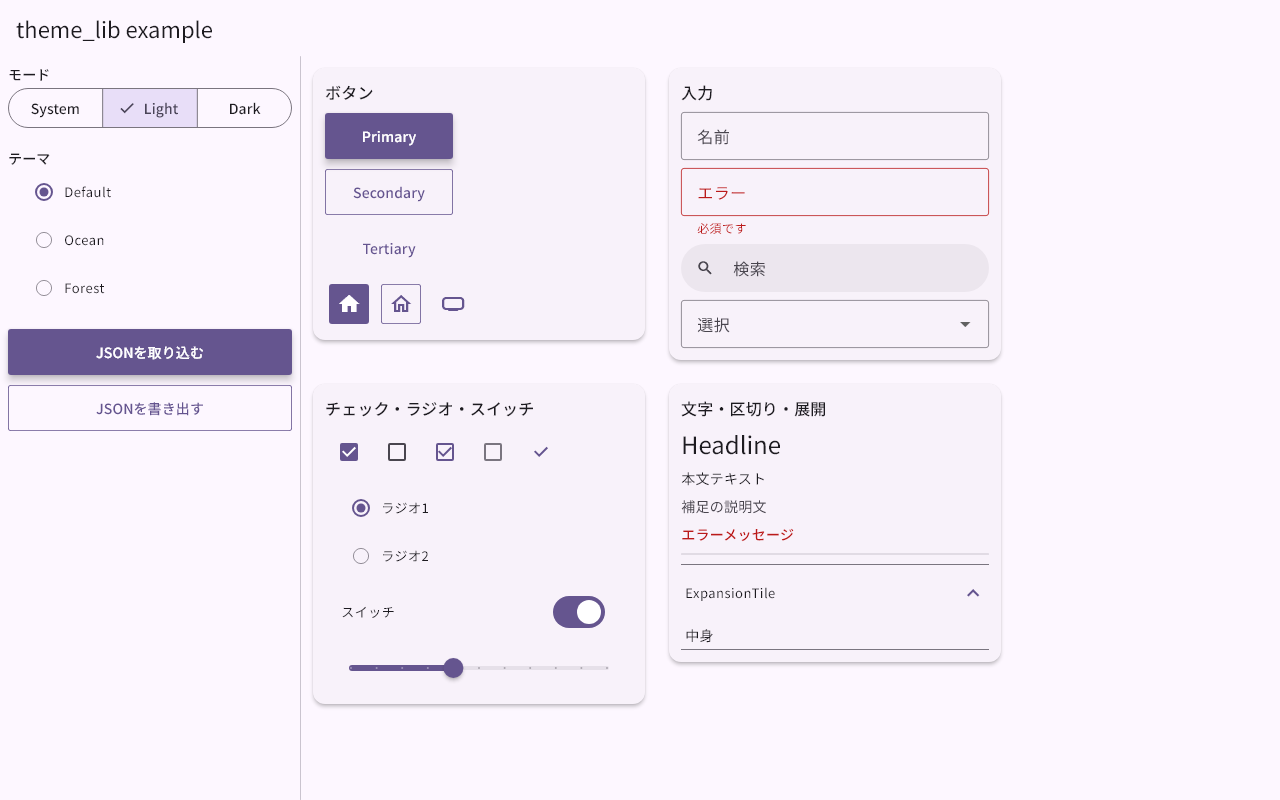
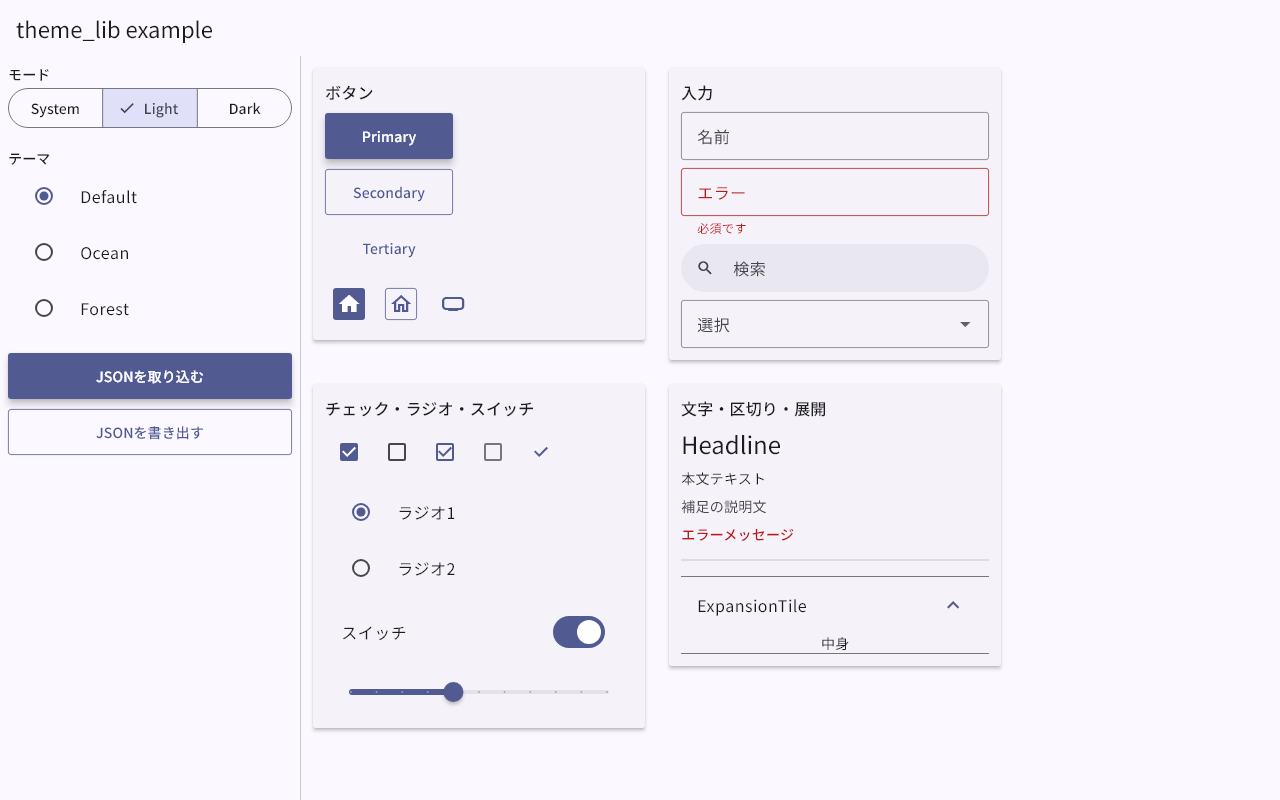
theme_lib: ThemeManager更新、builder追加、ドキュメント画像・ログ更新

diff --git a/packages/ui/theme_lib/lib/builder/theme_builder.dart b/packages/ui/theme_lib/lib/builder/theme_builder.dart
@@ -1,0 +1,103 @@
+import 'package:flutter/material.dart';
+
+import '../model/theme_definition.dart';
+import '../tokens/border_field.dart';
+import '../tokens/space_field.dart';
+
+/// [ThemeDefinition] から [ThemeData] を組み立てる。
+abstract final class ThemeBuilder {
+  static ThemeData build(ThemeDefinition definition, Brightness brightness) {
+    final metrics = definition.metrics;
+    final colors = _colorScheme(definition, brightness);
+    final shape = RoundedRectangleBorder(
+      borderRadius: BorderRadius.circular(metrics.radius),
+    );
+    OutlineInputBorder outline(Color color, double width) => OutlineInputBorder(
+      borderRadius: BorderRadius.circular(metrics.radius),
+      borderSide: BorderSide(color: color, width: width),
+    );
+    final buttonSize = Size(metrics.buttonWidth, metrics.buttonHeight);
+    final iconSize = Size.square(metrics.iconButtonSize);
+
+    return ThemeData(
+      useMaterial3: true,
+      colorScheme: colors,
+      fontFamily: definition.fontFamily,
+      extensions: [
+        SpaceField(
+          formFieldPd: metrics.formFieldPadding,
+          menuFieldPd: metrics.menuFieldPadding,
+          spacing: metrics.spacing,
+        ),
+        BorderField(
+          radius: metrics.radius,
+          fullRadius: metrics.fullRadius,
+          borderWidth: metrics.borderWidth,
+          activeBorderWidth: metrics.activeBorderWidth,
+        ),
+      ],
+      filledButtonTheme: FilledButtonThemeData(
+        style: FilledButton.styleFrom(
+          minimumSize: buttonSize,
+          elevation: metrics.buttonElevation,
+          shape: shape,
+        ),
+      ),
+      iconButtonTheme: IconButtonThemeData(
+        style: IconButton.styleFrom(
+          minimumSize: iconSize,
+          padding: EdgeInsets.zero,
+          shape: shape,
+        ),
+      ),
+      inputDecorationTheme: InputDecorationTheme(
+        isDense: true,
+        contentPadding: EdgeInsets.all(metrics.formFieldPadding + 8),
+        border: outline(colors.outline, metrics.borderWidth),
+        enabledBorder: outline(colors.outline, metrics.borderWidth),
+        focusedBorder: outline(colors.primary, metrics.activeBorderWidth),
+        errorBorder: outline(colors.error, metrics.borderWidth),
+        focusedErrorBorder: outline(colors.error, metrics.activeBorderWidth),
+      ),
+      cardTheme: CardThemeData(shape: shape),
+      dialogTheme: DialogThemeData(shape: shape),
+      checkboxTheme: CheckboxThemeData(
+        shape: RoundedRectangleBorder(
+          borderRadius: BorderRadius.circular(metrics.radius / 2),
+        ),
+      ),
+    );
+  }
+
+  /// seed から配色を生成し、個別指定の色を重ねる。
+  ///
+  /// `dark` が無いときは `light` の seed だけからダーク配色を生成する
+  /// (ライト用の個別指定色はダークで破綻するため重ねない)。
+  static ColorScheme _colorScheme(
+    ThemeDefinition definition,
+    Brightness brightness,
+  ) {
+    final explicit = brightness == Brightness.dark ? definition.dark : null;
+    final palette = brightness == Brightness.dark
+        ? (definition.dark ?? definition.light)
+        : definition.light;
+    final useOverrides = brightness == Brightness.light || explicit != null;
+    final o = useOverrides ? palette.overrides : const <String, Color>{};
+    return ColorScheme.fromSeed(
+      seedColor: palette.seed,
+      brightness: brightness,
+    ).copyWith(
+      primary: o['primary'],
+      onPrimary: o['onPrimary'],
+      secondary: o['secondary'],
+      onSecondary: o['onSecondary'],
+      tertiary: o['tertiary'],
+      onTertiary: o['onTertiary'],
+      error: o['error'],
+      onError: o['onError'],
+      surface: o['surface'],
+      onSurface: o['onSurface'],
+      outline: o['outline'],
+    );
+  }
+}

diff --git a/packages/ui/theme_lib/lib/builder/built_in_themes.dart b/packages/ui/theme_lib/lib/builder/built_in_themes.dart
@@ -1,0 +1,23 @@
+import 'package:flutter/painting.dart';
+
+import '../model/theme_definition.dart';
+
+/// 組み込みテーマ。先頭が既定で、いずれも削除できない。
+final List<ThemeDefinition> builtInThemes = List.unmodifiable([
+  ThemeDefinition(
+    id: 'default',
+    name: 'Default',
+    light: ThemePalette(seed: const Color(0xFF3F51B5)),
+  ),
+  ThemeDefinition(
+    id: 'ocean',
+    name: 'Ocean',
+    light: ThemePalette(seed: const Color(0xFF00838F)),
+  ),
+  ThemeDefinition(
+    id: 'forest',
+    name: 'Forest',
+    light: ThemePalette(seed: const Color(0xFF2E7D32)),
+    metrics: const ThemeMetrics(spacing: 6, radius: 12, fullRadius: 28),
+  ),
+]);

diff --git a/packages/ui/theme_lib/lib/manager/theme_manager.dart b/packages/ui/theme_lib/lib/manager/theme_manager.dart
@@ -2,8 +2,8 @@ import 'package:flutter/material.dart';
 import 'package:flutter_riverpod/flutter_riverpod.dart';
 import 'package:logger_provider/logger_provider.dart';
 
-import '../build/built_in_themes.dart';
-import '../build/theme_builder.dart';
+import '../builder/built_in_themes.dart';
+import '../builder/theme_builder.dart';
 import '../model/theme_definition.dart';
 import '../model/theme_exceptions.dart';
 import '../model/theme_state.dart';

diff --git a/packages/ui/theme_lib/lib/theme_lib.dart b/packages/ui/theme_lib/lib/theme_lib.dart
@@ -5,8 +5,8 @@
 /// 使い方は`doc/contents/usage.md`を参照。
 library;
 
-export 'build/built_in_themes.dart';
-export 'build/theme_builder.dart';
+export 'builder/built_in_themes.dart';
+export 'builder/theme_builder.dart';
 export 'extensions/search_field_extensions.dart';
 export 'extensions/space_extensions.dart';
 export 'extensions/text_extensions.dart';

diff --git a/packages/ui/theme_lib/doc/log/20261020_0002.md b/packages/ui/theme_lib/doc/log/20261020_0002.md
@@ -1,0 +1,29 @@
+# 20261020_0002 環境変更後のエラー解消と使用方法の再生成
+
+## 1. 発生していたエラー
+
+`dart analyze` で 10 件。すべて `lib/build/built_in_themes.dart` / `lib/build/theme_builder.dart` が存在しないことが原因。
+
+- 原因: ルート `.gitignore` の `build/` が `lib/build/` にも該当し、この2ファイルが一度もコミットされていなかった。環境が変わった(新しい作業ツリー)ため消失した。
+- 対応: ディレクトリ名を `lib/builder/` に変更して `ThemeBuilder` と `builtInThemes` を再作成。`theme_manager.dart` / `theme_lib.dart` の import / export を更新。
+  - 復元の根拠: 既存テスト(組み込み `default`/`ocean`/`forest`、forest は radius 12・spacing 6、ボタン 128x46、線幅 0.8)、`SpaceField`/`BorderField`、`ThemeMetrics`、`doc/log/20261020_0001.md`、example。
+  - 組み込みテーマの seed 色は元の値が失われているため新規に選定(default `#3F51B5` / ocean `#00838F` / forest `#2E7D32`)。**元の色と異なる可能性がある。**
+  - `dark` 省略時は `light` の seed のみからダーク配色を生成する(light の個別指定色はダークで破綻するため重ねない)。
+
+## 2. 環境の問題(コード外)
+
+Flutter SDK が日本語を含むパス(`F:\data\ダウンロード\flutter`)にあり、`flutter test` のシェーダーコンパイルが文字化けで失敗する(`ShaderCompilerException`)。
+- 回避: ジャンクション `C:\flutterSDK\flutter` → 上記 SDK を作成し、セッション中は `C:\flutterSDK\flutter\bin` を PATH の先頭にして実行した。
+- 恒久対応にはユーザー環境の PATH を `C:\flutterSDK\flutter\bin` に変更するか、SDK を ASCII パスへ移す必要がある(未実施)。
+- `screenshots_test.dart` が参照する `C:/flutterSDK/flutter/...` とも一致する。
+
+## 3. 使用方法(doc/contents/usage.md)
+
+`example/tool/screenshots_test.dart` で 6 枚のスクリーンショットを再生成し `doc/contents/images/` を更新した。`usage.md` 本文の変更は不要(参照パス・ファイル名は同一)。
+
+## 4. 検証
+
+- `dart analyze`(theme_lib / example): 指摘なし
+- `flutter test`(theme_lib): 38 件成功 / (example): 1 件成功
+- スクリーンショットはテスト経由の描画であり実アプリではない(`add_1` の回答 1 のとおり、実アプリでの撮り直しは Visual Studio 環境が整った旨の通知後)。
+  なお `flutter doctor` 上は Visual Studio 2022 が検出されており、環境が整った可能性がある。
